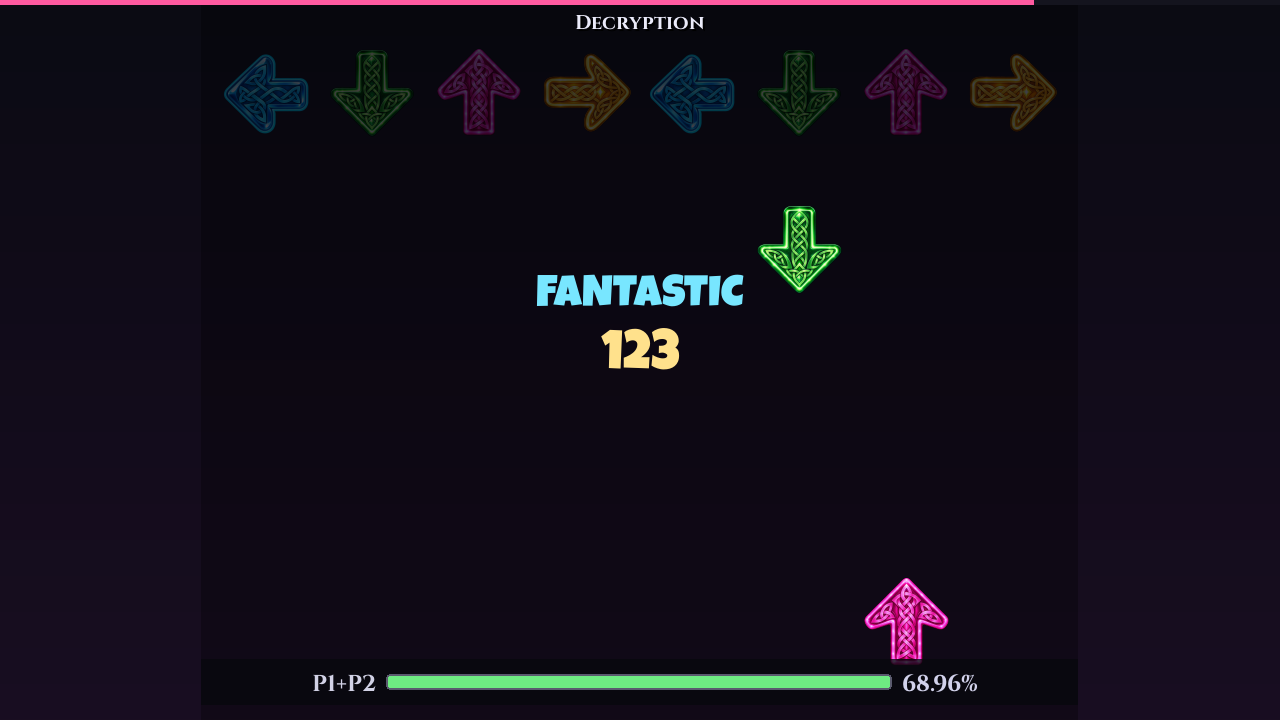
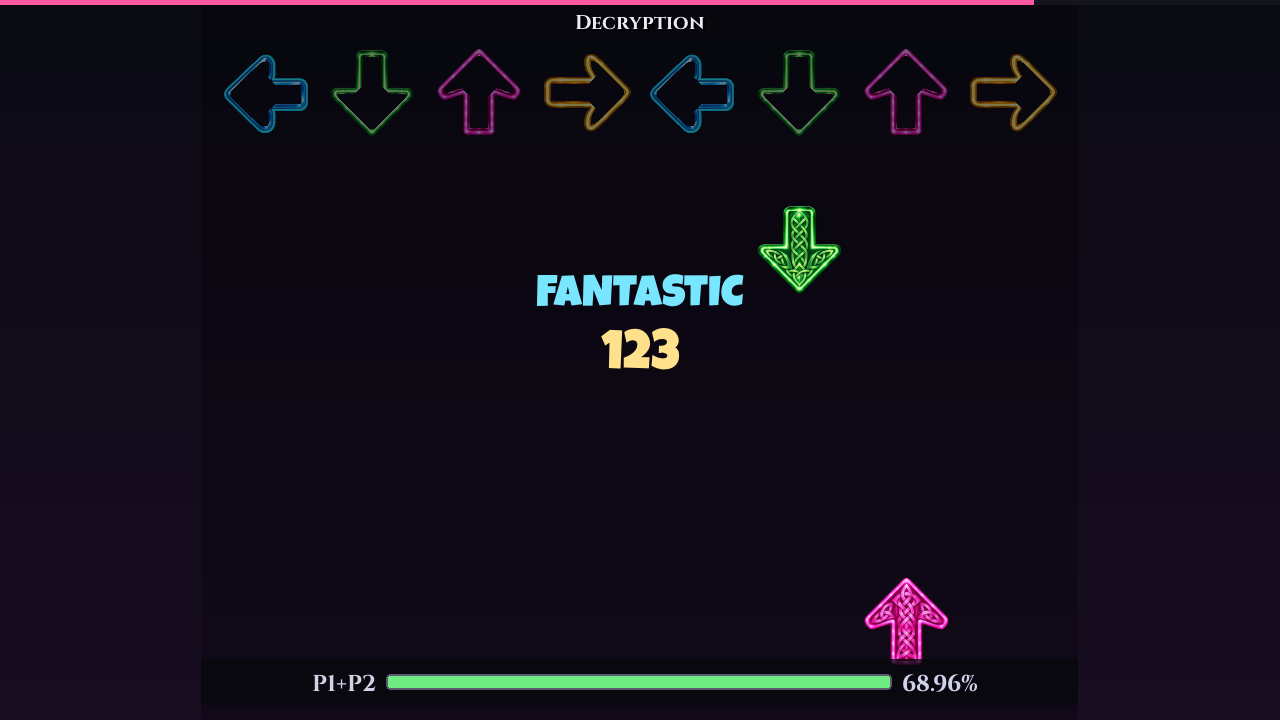
feat: hollow the receptors and calm the hit spark
The receptor is now the arrow's outer frame with the knotwork cut out of
the middle, so a target reads as somewhere to land rather than as a note
that stopped moving. It keeps the artwork's own colours by masking the
band back over the original rather than recolouring it.

The spark was tuned against the old procedural burst and swallowed the
panel whole; it now opens from just under the arrow's size at a lower
alpha, so the receptor stays visible underneath the flash.

Changed region(s): [[0.1562, 0.0611, 0.8438, 0.1833]]

diff --git a/ceilidh/display/art.py b/ceilidh/display/art.py
@@ -62,16 +62,40 @@ def arrow(size: int, direction: int) -> pygame.Surface | None:
     return square(ARROW_FILES[direction % 4], size)
 
 
+def _outline_mask(surface: pygame.Surface, band: int) -> pygame.mask.Mask:
+    """The outer band of a shape: itself, minus an eroded copy of itself."""
+    shape = pygame.mask.from_surface(surface, 120)
+    eroded = shape
+    for _ in range(band):
+        step = eroded
+        for offset in ((1, 0), (-1, 0), (0, 1), (0, -1)):
+            step = step.overlap_mask(eroded, offset)
+        eroded = step
+    ring = shape.copy()
+    ring.erase(eroded, (0, 0))
+    return ring
+
+
 @lru_cache(maxsize=64)
 def receptor(size: int, direction: int, bright: bool) -> pygame.Surface | None:
-    """The same arrow, knocked back so it reads as a target rather than a note."""
+    """The arrow's outer frame with the knotwork cut out of the middle.
+
+    A hollow target reads as somewhere to land rather than as a note that has
+    stopped moving, which is the whole job of a receptor.
+    """
     base = arrow(size, direction)
     if base is None:
         return None
-    shaded = base.copy()
-    shade = (170, 170, 180) if bright else (64, 64, 74)
-    shaded.fill((*shade, 255), special_flags=pygame.BLEND_RGBA_MULT)
-    return shaded
+
+    ring = _outline_mask(base, max(2, round(size / 13)))
+    cut = ring.to_surface(setcolor=(255, 255, 255, 255), unsetcolor=(0, 0, 0, 0))
+
+    frame = base.copy()
+    frame.blit(cut, (0, 0), special_flags=pygame.BLEND_RGBA_MULT)
+    shade = (255, 255, 255) if bright else (125, 125, 135)
+    if not bright:
+        frame.fill((*shade, 255), special_flags=pygame.BLEND_RGBA_MULT)
+    return frame
 
 
 @lru_cache(maxsize=128)

diff --git a/ceilidh/gameplay/playfield.py b/ceilidh/gameplay/playfield.py
@@ -140,8 +140,10 @@ class Playfield:
 
             if lane.flash[column] > 0:
                 fade = min(1.0, lane.flash[column] / FLASH_TIME)
-                alpha = int(230 * fade) // 16 * 16
-                spark = art.spark(int(geo.arrow * (1.7 - 0.4 * fade)) // 4 * 4, alpha)
+                # a flash on the panel, not a starburst over it: it starts a
+                # touch smaller than the arrow and opens slightly as it fades
+                alpha = int(185 * fade) // 16 * 16
+                spark = art.spark(int(geo.arrow * (1.18 - 0.22 * fade)) // 4 * 4, alpha)
                 if spark is not None:
                     surface.blit(spark, spark.get_rect(center=(x, geo.receptor_y)),
                                  special_flags=pygame.BLEND_ADD)
